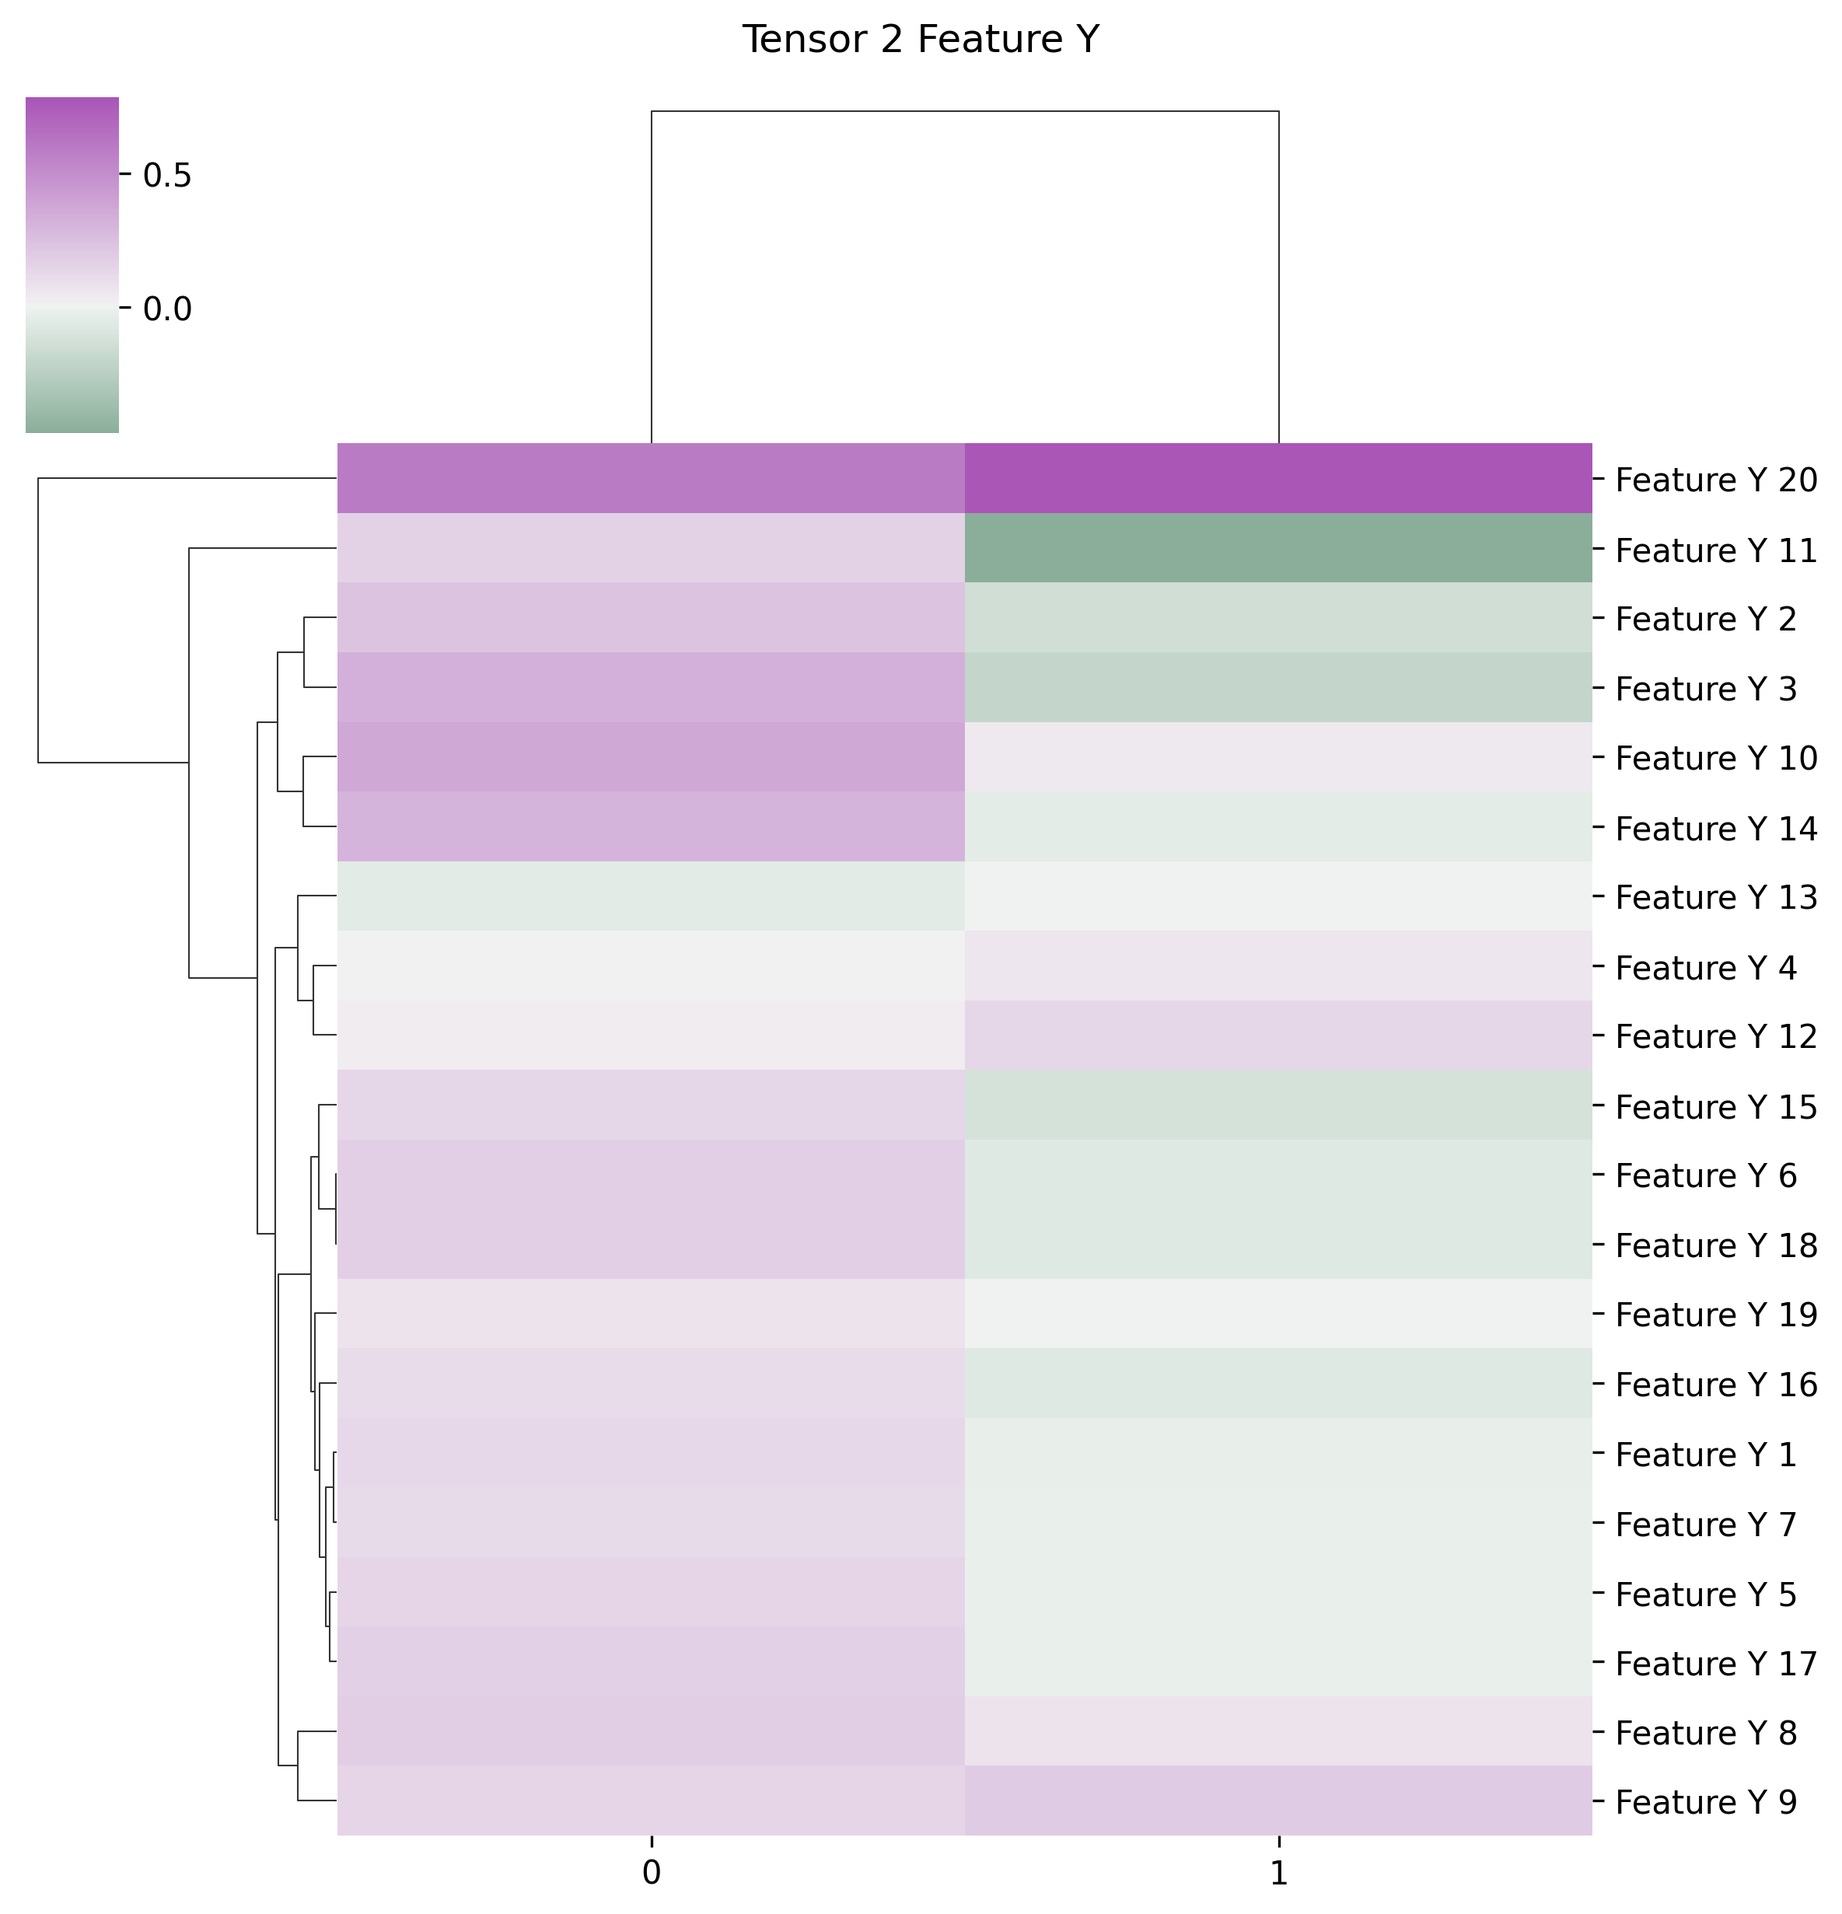
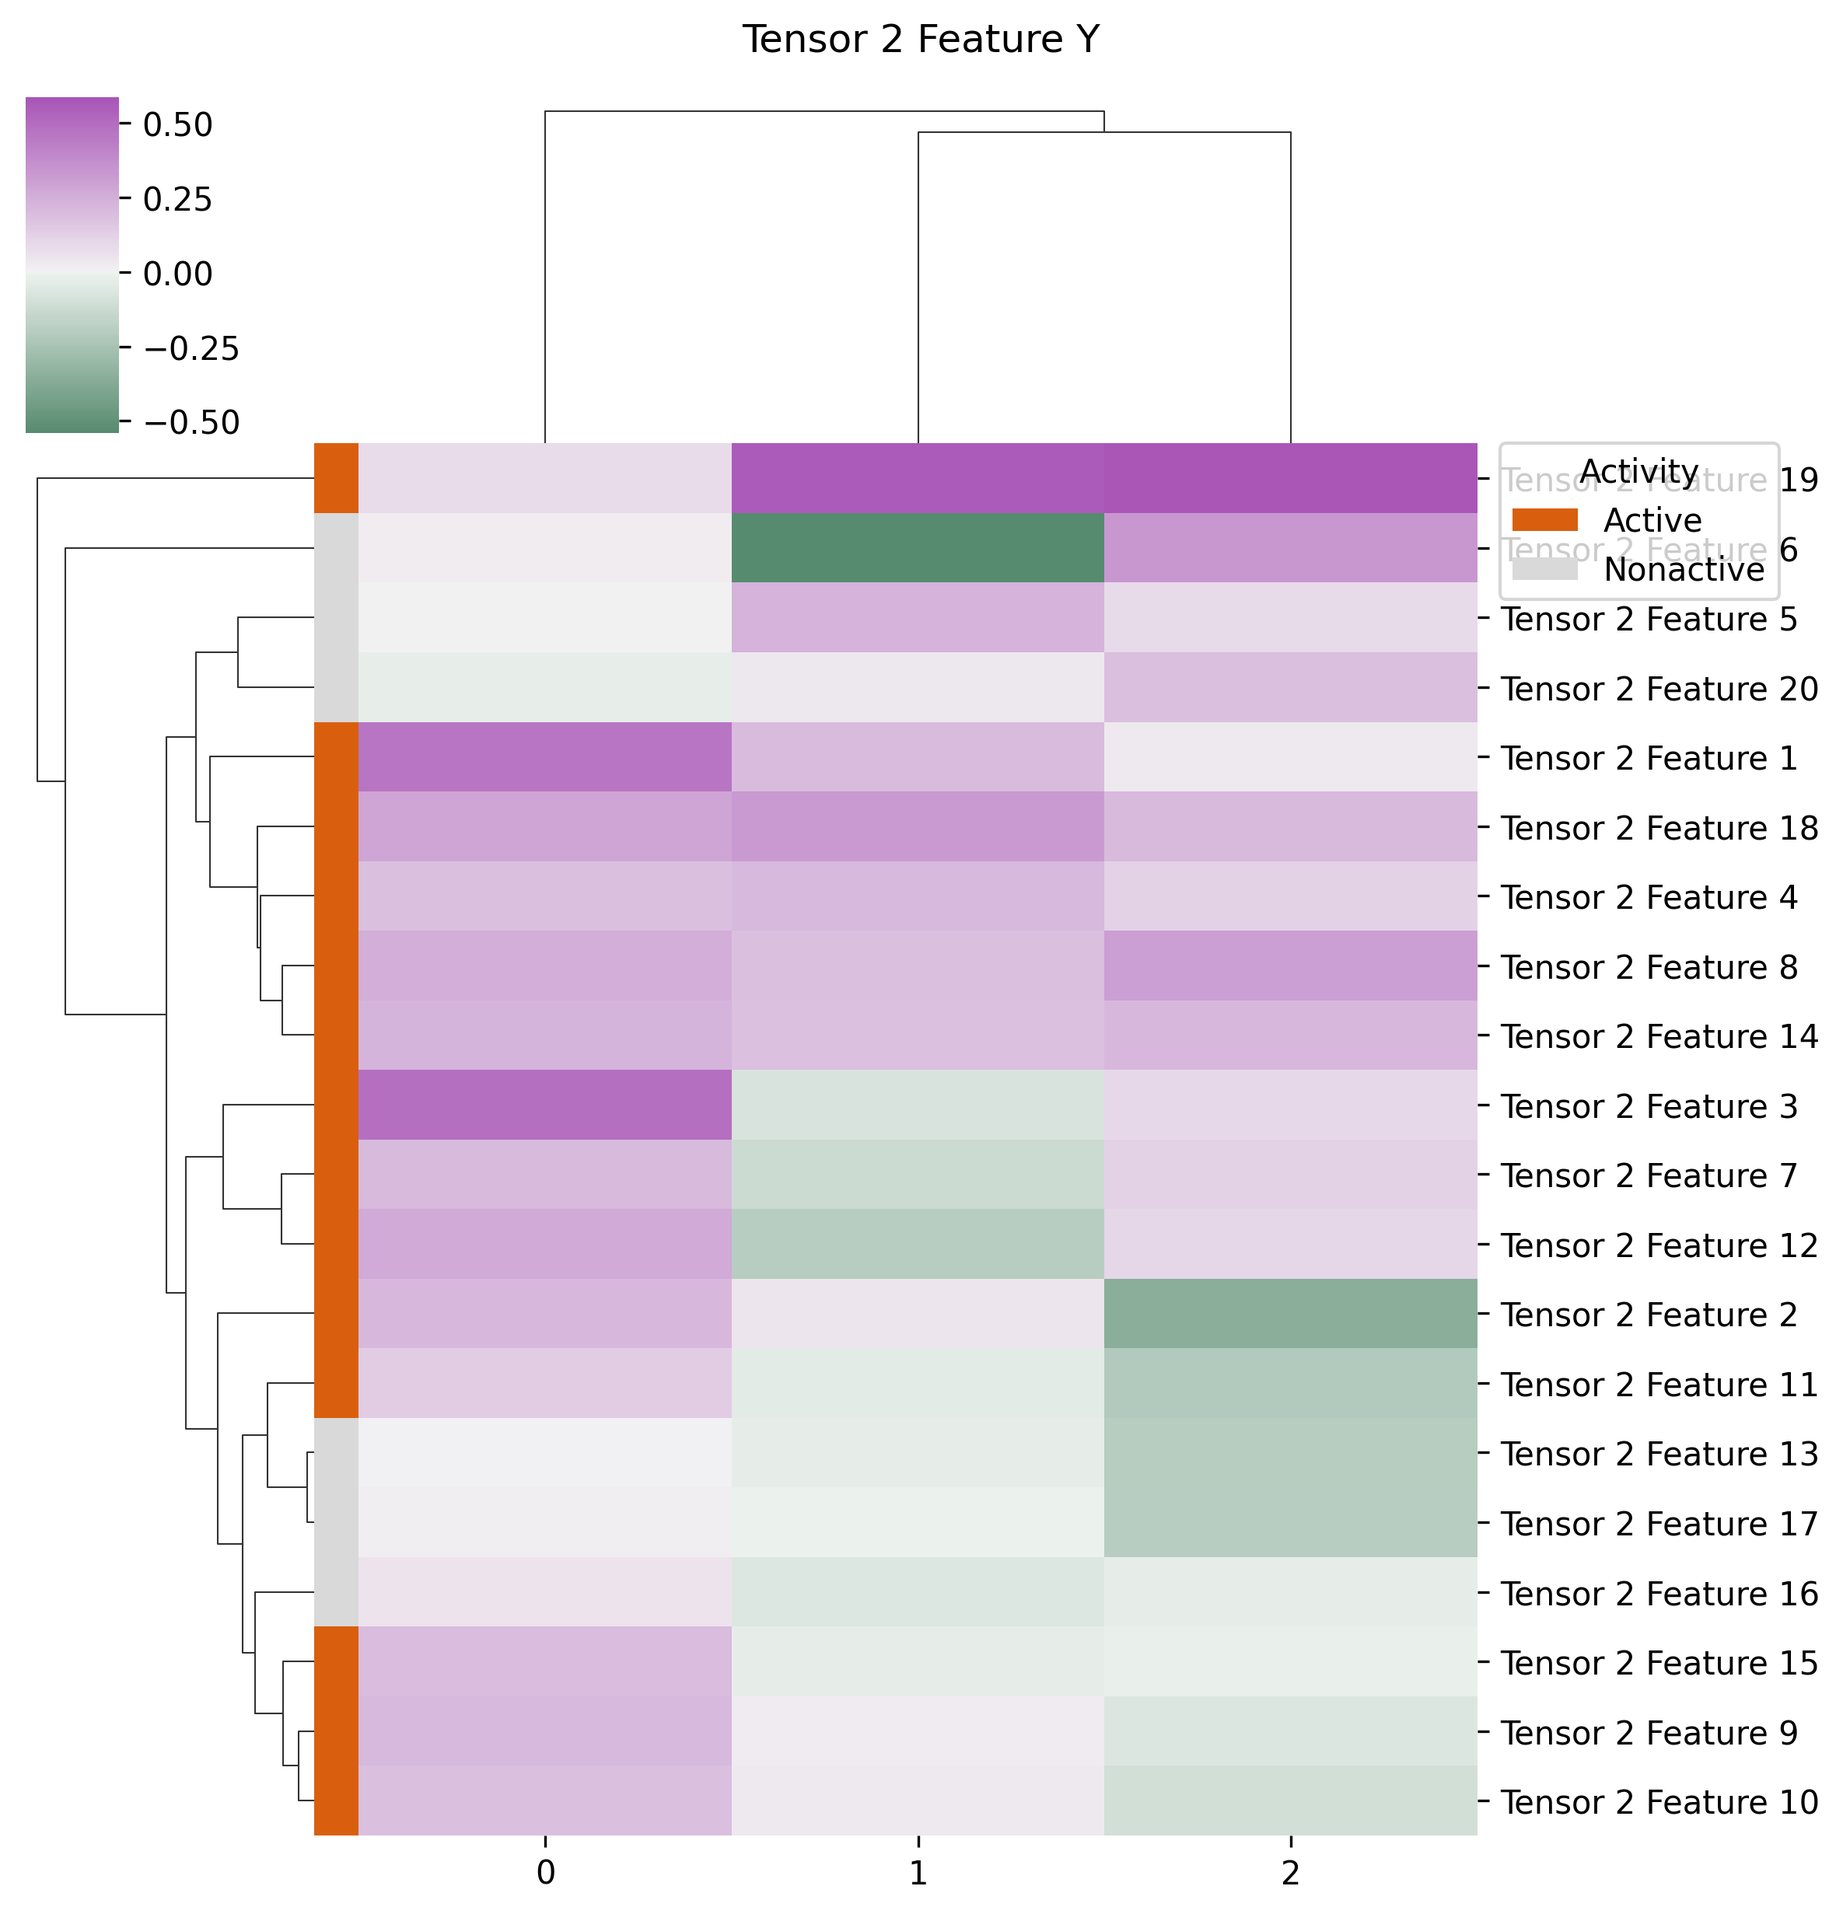
Save work

diff --git a/simulation.py b/simulation.py
@@ -7,17 +7,82 @@ from matplotlib.patches import Patch
 from predict import run_coupled_tpls_classification
 
 
+def build_axis_labels(n_items: int, prefix: str) -> list[str]:
+    return [f"{prefix} {i + 1}" for i in range(n_items)]
+
+
+def collect_unique_indices(index_groups: np.ndarray | list[np.ndarray]) -> np.ndarray:
+    if isinstance(index_groups, np.ndarray):
+        return np.unique(np.asarray(index_groups, dtype=int))
+
+    unique_indices = sorted({int(index) for group in index_groups for index in np.asarray(group, dtype=int).tolist()})
+    return np.asarray(unique_indices, dtype=int)
+
+
+def build_active_row_colors(
+    n_items: int,
+    active_indices: np.ndarray | list[np.ndarray],
+    active_color: str = "#d95f0e",
+    inactive_color: str = "#d9d9d9",
+) -> list[str]:
+    active_set = set(collect_unique_indices(active_indices).tolist())
+    return [active_color if index in active_set else inactive_color for index in range(n_items)]
+
+
+def build_active_color_legend(
+    active_color: str = "#d95f0e",
+    inactive_color: str = "#d9d9d9",
+    active_label: str = "Active",
+    inactive_label: str = "Nonactive",
+) -> dict[str, str]:
+    return {
+        active_label: active_color,
+        inactive_label: inactive_color,
+    }
+
+
 def main():
-    tensors, y, sample_categories = create_dummy_coupled_dataset(tensor_a_noise_scale=1, tensor_b_noise_scale=1, 
-                                                                 category_1_strength=1.2, category_2_strength=0.8,
-                                                                 feature_signal_jitter_a=0.45, feature_signal_jitter_b=0.45)
+    tensors, y, sample_categories, signal_metadata = create_dummy_coupled_dataset(
+        tensor_a_noise_scale=.25,
+        tensor_b_noise_scale=.25,
+        category_1_strength=1.2,
+        category_2_strength=0.8,
+        feature_signal_jitter_a=0.35,
+        feature_signal_jitter_b=0.35,
+        cell_signal_jitter=0.1,
+        variable_cell_importance=True,
+        random_active_cells_per_sample=False,
+        random_signal_features_per_sample=False,
+        seed=0
+    )
+
+    cell_type_labels = signal_metadata["cell_type_labels"]
+    feature_labels_a = signal_metadata["feature_labels_a"]
+    feature_labels_b = signal_metadata["feature_labels_b"]
+
+    active_cells = signal_metadata["global_active_cells"]
+    active_features_a = signal_metadata["global_signal_features_a"]
+    active_features_b = signal_metadata["global_signal_features_b"]
+
+    cell_type_row_colors = build_active_row_colors(len(cell_type_labels), active_cells)
+    feature_a_row_colors = build_active_row_colors(len(feature_labels_a), active_features_a)
+    feature_b_row_colors = build_active_row_colors(len(feature_labels_b), active_features_b)
+
+    cell_type_color_legend = build_active_color_legend()
+    feature_a_color_legend = build_active_color_legend()
+    feature_b_color_legend = build_active_color_legend()
+
+    print("Active cell types:", signal_metadata["global_active_cells"])
+    print("Tensor 1 signal features:", signal_metadata["global_signal_features_a"])
+    print("Tensor 2 signal features:", signal_metadata["global_signal_features_b"])
 
     (tpls, lr_model), acc, predicted = run_coupled_tpls_classification(
         tensors=tensors,
         labels=y,
-        rank=2,
+        rank=3,
         return_proba=True,
     )
+    print(f"Classification accuracy: {acc:.2f}")
 
     sample_labels = [f"Patient_{i + 1:03d}" for i in range(len(y))]
     category_palette = {
@@ -34,15 +99,41 @@ def main():
         row_colors=sample_row_colors,
         color_legend=category_palette,
     )
-    save_clustermap(tpls.Xs_factors[0][1], "Shared Mode Cell Type", "shared_mode_cell_type_clustermap.png", row_labels= [f"Cell Type {i + 1}" for i in range(tpls.Xs_factors[0][1].shape[0])])
-    save_clustermap(tpls.Xs_factors[0][2], "Tensor 1 Feature X", "tensor1_feature1_clustermap.png", row_labels=[f"Feature X {i + 1}" for i in range(tpls.Xs_factors[0][2].shape[0])])
-    save_clustermap(tpls.Xs_factors[1][2], "Tensor 2 Feature Y", "tensor2_feature2_clustermap.png", row_labels=[f"Feature Y {i + 1}" for i in range(tpls.Xs_factors[1][2].shape[0])])
-                    
-    
-    plot_r2x_over_components(tensors, y, 5, "r2x_over_components.png")
-    plot_acc_over_components(tensors, y, 5, "accuracy_over_components.png")
+
+    # Use these helpers to mark active rows and add a legend for the active items.
+    save_clustermap(
+        tpls.Xs_factors[0][1],
+        "Shared Mode Cell Type",
+        "shared_mode_cell_type_clustermap.png",
+        row_labels=cell_type_labels,
+        row_colors=cell_type_row_colors,
+        color_legend=cell_type_color_legend,
+        legend_title="Activity",
+    )
+    save_clustermap(
+        tpls.Xs_factors[0][2],
+        "Tensor 1 Feature X",
+        "tensor1_feature1_clustermap.png",
+        row_labels=feature_labels_a,
+        row_colors=feature_a_row_colors,
+        color_legend=feature_a_color_legend,
+        legend_title="Activity",
+    )
+    save_clustermap(
+        tpls.Xs_factors[1][2],
+        "Tensor 2 Feature Y",
+        "tensor2_feature2_clustermap.png",
+        row_labels=feature_labels_b,
+        row_colors=feature_b_row_colors,
+        color_legend=feature_b_color_legend,
+        legend_title="Activity",
+    )
 
     plot_logistic_weights(lr_model, "logistic_weights.png")
+
+    # Combined R2X and accuracy plot
+    plot_r2x_and_acc_over_components(tensors, y, 10, "r2x_and_accuracy_over_components.png")
+
 
     return
 
@@ -56,6 +147,7 @@ def save_clustermap(
     row_labels: list[str] | None = None,
     row_colors: list[str] | None = None,
     color_legend: dict[str, str] | None = None,
+    legend_title: str = "Category",
 ) -> None:
     """Save a clustered heatmap for one factor matrix."""
     frame = pd.DataFrame(data)
@@ -76,7 +168,7 @@ def save_clustermap(
         handles = [Patch(facecolor=color, edgecolor="none", label=label) for label, color in color_legend.items()]
         cluster_grid.ax_heatmap.legend(
             handles=handles,
-            title="Category",
+            title=legend_title,
             loc="upper left",
             bbox_to_anchor=(1.02, 1.0),
             borderaxespad=0.0,
@@ -98,6 +190,7 @@ def plot_r2x_over_components(tensors, y, component, filename: str) -> None:
     r2xs_tensor2 = pd.Series(0.0, index=components)
 
     for i in components:
+        print(f"Evaluating rank {i}...")
         (tpls, lr_model), acc, predicted = run_coupled_tpls_classification(
             tensors=tensors,
             labels=y,
@@ -130,6 +223,7 @@ def plot_acc_over_components(tensors, y, component, filename: str) -> None:
     accuracies = pd.Series(0.0, index=ranks, dtype=float)
 
     for rank in ranks:
+        print(f"Evaluating rank {rank}...")
         (_, _), acc, _ = run_coupled_tpls_classification(
             tensors=tensors,
             labels=y,
@@ -143,6 +237,59 @@ def plot_acc_over_components(tensors, y, component, filename: str) -> None:
     ax.set_xlabel("tPLS Components")
     ax.set_ylabel("Prediction Accuracy")
     ax.set_title("Rank vs Accuracy")
+    out_dir = Path("plots")
+    out_dir.mkdir(parents=True, exist_ok=True)
+    fig.savefig(out_dir / filename, dpi=300, bbox_inches="tight")
+    plt.close(fig)
+
+
+def plot_r2x_and_acc_over_components(tensors, y, max_component: int, filename: str) -> None:
+    """Combine cumulative R2X (both tensors) and prediction accuracy in one figure.
+
+    The metrics are shown as three stacked subplots so they stay visually separate
+    while still saving to a single file.
+    """
+    components = np.arange(1, max_component + 1)
+    r2x1 = pd.Series(0.0, index=components)
+    r2x2 = pd.Series(0.0, index=components)
+    accuracies = pd.Series(0.0, index=components, dtype=float)
+
+    for k in components:
+        print(f"Evaluating rank {k}...")
+        (tpls, lr_model), acc, predicted = run_coupled_tpls_classification(
+            tensors=tensors,
+            labels=y,
+            rank=int(k),
+            return_proba=True,
+        )
+
+        r2x1.loc[k] = tpls.R2Xs[0][-1]
+        r2x2.loc[k] = tpls.R2Xs[1][-1]
+        accuracies.loc[k] = acc
+
+    fig, axes = plt.subplots(3, 1, figsize=(9, 9), sharex=True)
+
+    axes[0].plot(components, r2x1.values, marker="o", color="#1f77b4")
+    axes[0].set_ylabel("R2X")
+    axes[0].set_title("R2X (Tensor 1)")
+    axes[0].set_ylim(bottom=0)
+
+    axes[1].plot(components, r2x2.values, marker="o", color="#ff7f0e")
+    axes[1].set_ylabel("R2X")
+    axes[1].set_title("R2X (Tensor 2)")
+    axes[1].set_ylim(bottom=0)
+
+    axes[2].plot(components, accuracies.values, marker="s", color="#2ca02c")
+    axes[2].set_xlabel("tPLS Components")
+    axes[2].set_ylabel("Accuracy")
+    axes[2].set_title("Prediction Accuracy")
+    axes[2].set_ylim(bottom=0)
+
+    for axis in axes:
+        axis.set_xticks(components)
+        axis.grid(True, alpha=0.25)
+
+    fig.tight_layout()
     out_dir = Path("plots")
     out_dir.mkdir(parents=True, exist_ok=True)
     fig.savefig(out_dir / filename, dpi=300, bbox_inches="tight")
@@ -190,9 +337,11 @@ def create_dummy_coupled_dataset(
     feature_signal_jitter_a: float = 0.35,
     feature_signal_jitter_b: float = 0.35,
     tensor_b_signal_scale: float = 1.0,
+    cell_signal_jitter: float = 0.25,
+    variable_cell_importance: bool = False,
     random_active_cells_per_sample: bool = True,
     random_signal_features_per_sample: bool = True,
-) -> tuple[list[np.ndarray], np.ndarray, np.ndarray]:
+) -> tuple[list[np.ndarray], np.ndarray, np.ndarray, dict[str, object]]:
     """
     Create synthetic coupled tensors where specific subsets of cells 
     and features move together in relation to the class label.
@@ -243,6 +392,14 @@ def create_dummy_coupled_dataset(
     # Feature-specific signal multipliers so strength is non-uniform across features.
     feature_signal_scale_a = rng.lognormal(mean=0.0, sigma=feature_signal_jitter_a, size=n_features_a)
     feature_signal_scale_b = rng.lognormal(mean=0.0, sigma=feature_signal_jitter_b, size=n_features_b)
+    if variable_cell_importance:
+        cell_signal_scale = rng.lognormal(mean=0.0, sigma=cell_signal_jitter, size=n_cell_types)
+    else:
+        cell_signal_scale = np.ones(n_cell_types)
+
+    active_cells_by_sample: list[np.ndarray] = []
+    signal_features_a_by_sample: list[np.ndarray] = []
+    signal_features_b_by_sample: list[np.ndarray] = []
 
     # Inject coordinated signal with category separation and sample-level strength jitter.
     category_strength = {
@@ -259,15 +416,14 @@ def create_dummy_coupled_dataset(
             active_cells_sample = rng.choice(n_cell_types, size=n_active_sample, replace=False)
         else:
             active_cells_sample = active_cells
+        
+        active_cells_by_sample.append(np.array(active_cells_sample, copy=True))
 
-        if random_signal_features_per_sample:
-            n_signal_a_sample = rng.integers(1, n_features_a + 1)
-            n_signal_b_sample = rng.integers(1, n_features_b + 1)
-            signal_features_a = rng.choice(n_features_a, size=n_signal_a_sample, replace=False)
-            signal_features_b = rng.choice(n_features_b, size=n_signal_b_sample, replace=False)
-        else:
-            signal_features_a = coupled_features_a
-            signal_features_b = coupled_features_b
+        signal_features_a = coupled_features_a
+        signal_features_b = coupled_features_b
+
+        signal_features_a_by_sample.append(np.array(signal_features_a, copy=True))
+        signal_features_b_by_sample.append(np.array(signal_features_b, copy=True))
 
         signal_values_a = cat_strength * feature_signal_scale_a[signal_features_a]
         signal_values_b = (
@@ -275,10 +431,22 @@ def create_dummy_coupled_dataset(
         )
 
         for cell_idx in active_cells_sample:
-            tensor_a[sample_idx, cell_idx, signal_features_a] += signal_values_a
-            tensor_b[sample_idx, cell_idx, signal_features_b] += signal_values_b
+            tensor_a[sample_idx, cell_idx, signal_features_a] += signal_values_a * cell_signal_scale[cell_idx]
+            tensor_b[sample_idx, cell_idx, signal_features_b] += signal_values_b * cell_signal_scale[cell_idx]
 
-    return [tensor_a, tensor_b], y, sample_categories
+    signal_metadata = {
+        "global_active_cells": np.array(active_cells, copy=True),
+        "global_signal_features_a": np.array(coupled_features_a, copy=True),
+        "global_signal_features_b": np.array(coupled_features_b, copy=True),
+        "active_cells_by_sample": active_cells_by_sample,
+        "signal_features_a_by_sample": signal_features_a_by_sample,
+        "signal_features_b_by_sample": signal_features_b_by_sample,
+        "cell_type_labels": build_axis_labels(n_cell_types, "Cell Type"),
+        "feature_labels_a": build_axis_labels(n_features_a, "Tensor 1 Feature"),
+        "feature_labels_b": build_axis_labels(n_features_b, "Tensor 2 Feature"),
+    }
+
+    return [tensor_a, tensor_b], y, sample_categories, signal_metadata
 
 
 
